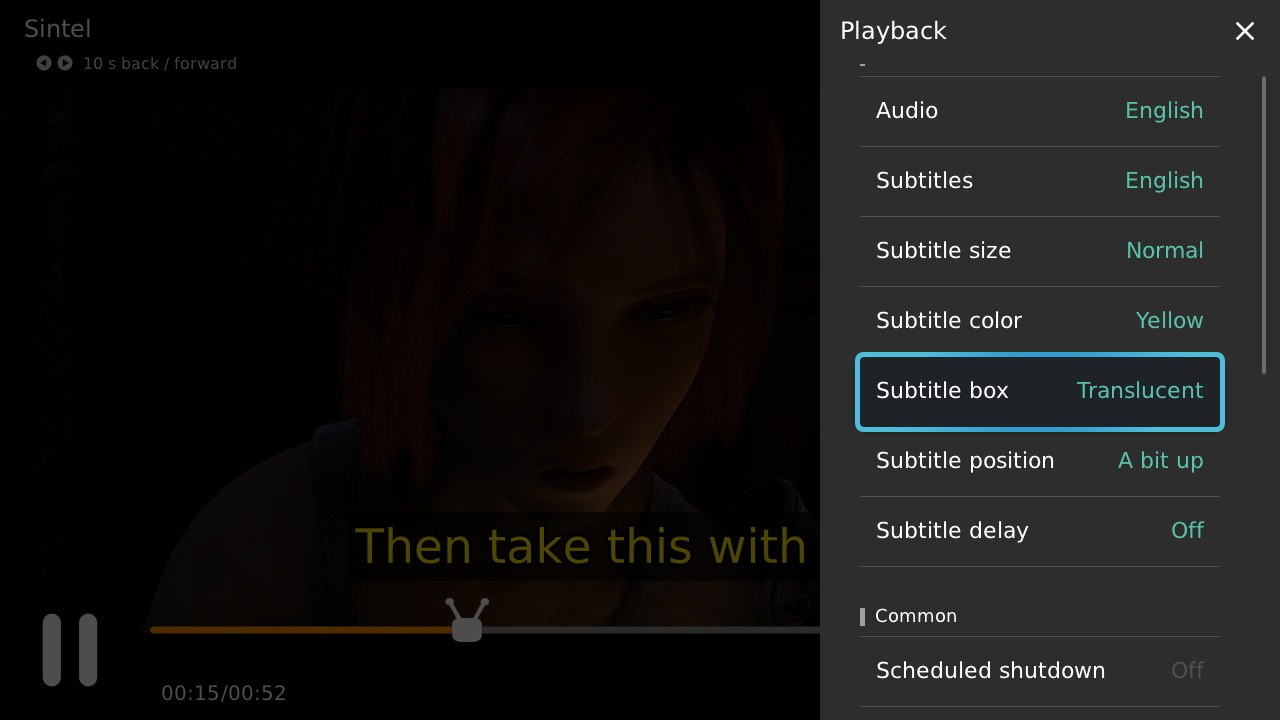
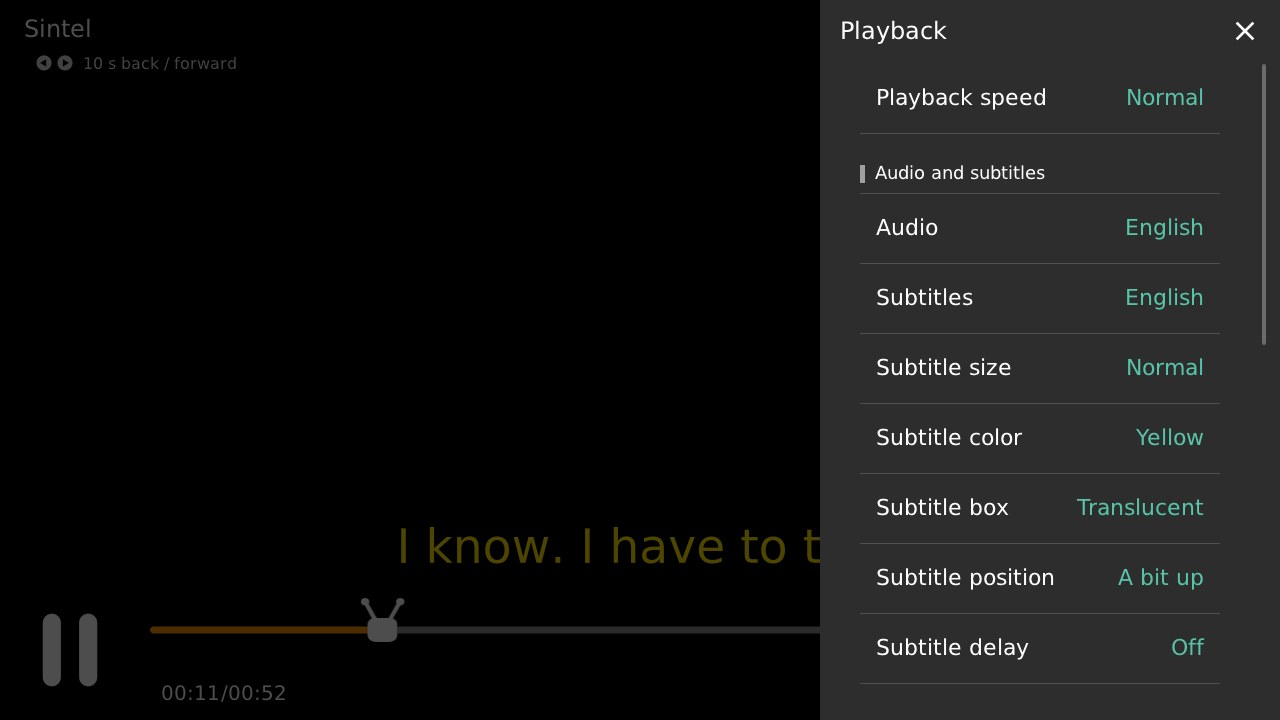
1.3.0

diff --git a/README.md b/README.md
@@ -76,7 +76,11 @@ Trailers come from YouTube only when you press Trailer: YouTube gets the id of t
     <td><img src="docs/screenshots/player.jpg" alt="Player"/><br/>Player</td>
   </tr>
   <tr>
-    <td><img src="docs/screenshots/player-settings.jpg" alt="Audio and subtitles"/><br/>Audio and subtitles</td>
+    <td><img src="docs/screenshots/trailer-button.jpg" alt="The Trailer button"/><br/>The Trailer button</td>
+    <td><img src="docs/screenshots/trailer.jpg" alt="A trailer from YouTube in the player"/><br/>A trailer from YouTube in the player</td>
+  </tr>
+  <tr>
+    <td><img src="docs/screenshots/player-settings.jpg" alt="Playback speed, audio and subtitles"/><br/>Playback speed, audio and subtitles</td>
     <td><img src="docs/screenshots/live-player.jpg" alt="Live TV with the programme guide"/><br/>Live TV with the programme guide</td>
   </tr>
   <tr>
@@ -101,7 +105,8 @@ The screenshots show the open movies of the Blender Foundation: *Big Buck Bunny*
 *Spring*, *Cosmos Laundromat*, *Sprite Fright*, *Elephants Dream*, *Charge* and *Caminandes*
 (© Blender Foundation / Blender Studio, [studio.blender.org](https://studio.blender.org), licensed
 [CC BY 3.0](https://creativecommons.org/licenses/by/3.0/) and [CC BY 4.0](https://creativecommons.org/licenses/by/4.0/);
-posters from Wikimedia Commons, resized, and the Caminandes cover made from an episode picture).
+posters from Wikimedia Commons, resized, and the Caminandes cover made from an episode picture). The trailer pictures
+play *Sintel* from the Blender Foundation's YouTube channel.
 The channel names and logos are made up, and the ratings are sample values. The Discover pictures add the made-up
 titles of an earlier showcase, and their TMDB data (genres, votes, similar titles) is made up too. The top of the
 Discover tab shows a frame of *Sintel*.

diff --git a/CHANGELOG.md b/CHANGELOG.md
@@ -1,6 +1,6 @@
 # Changelog
 
-## 1.3.0 - not released yet
+## 1.3.0 - 2026-09-29
 
 ### Trailers
 - The detail screen of a movie or a series has a Trailer button when TMDB or the provider knows a trailer. It plays
@@ -11,7 +11,8 @@
 
 ### Player
 - Playback speed in the player settings, like YouTube: 0.25x to 2x. It stays for the next episode while the player
-  is open; a movie or an episode opened again starts at normal speed. Live channels have no speed.
+  is open; a movie or an episode opened again starts at normal speed. Live channels have no speed. At 1.5x and 2x
+  a 1080p video can drop some frames: the Switch draws about 33 frames a second in this player.
 
 ### Detail screen
 - A plot that does not fit ends with "Read more". The plot, director and cast box then takes the focus, and A (or a
